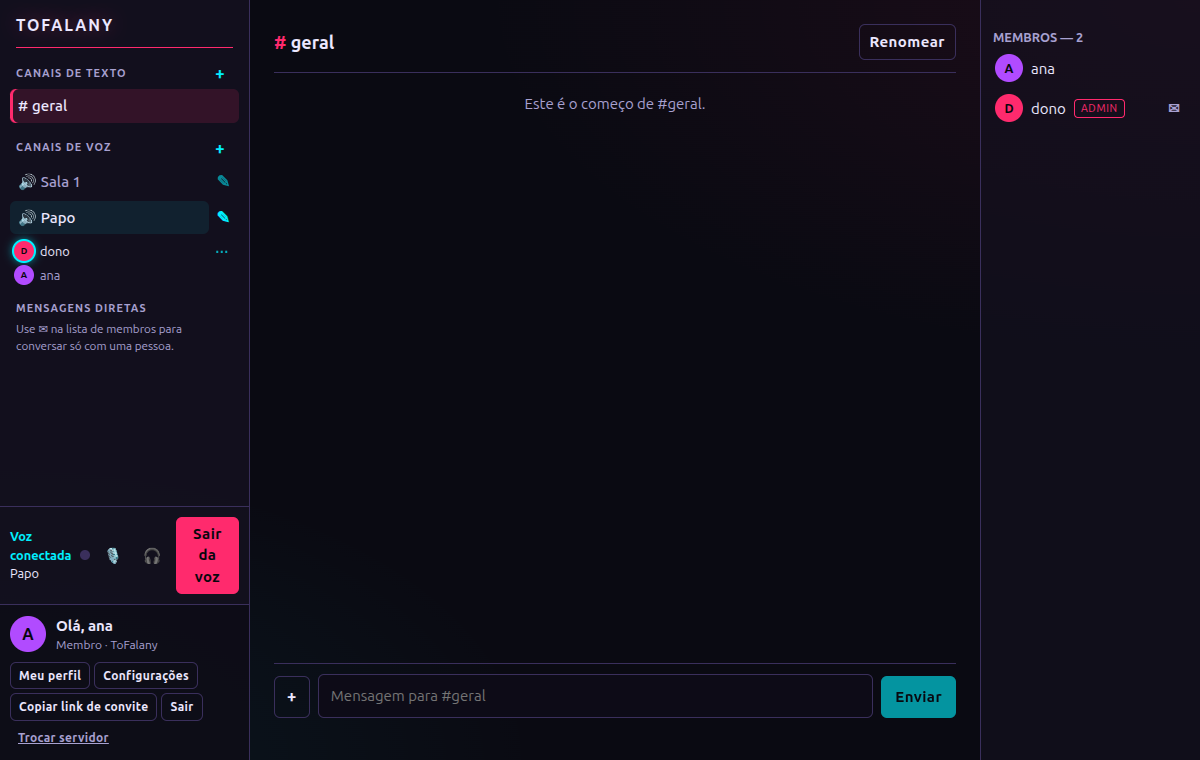
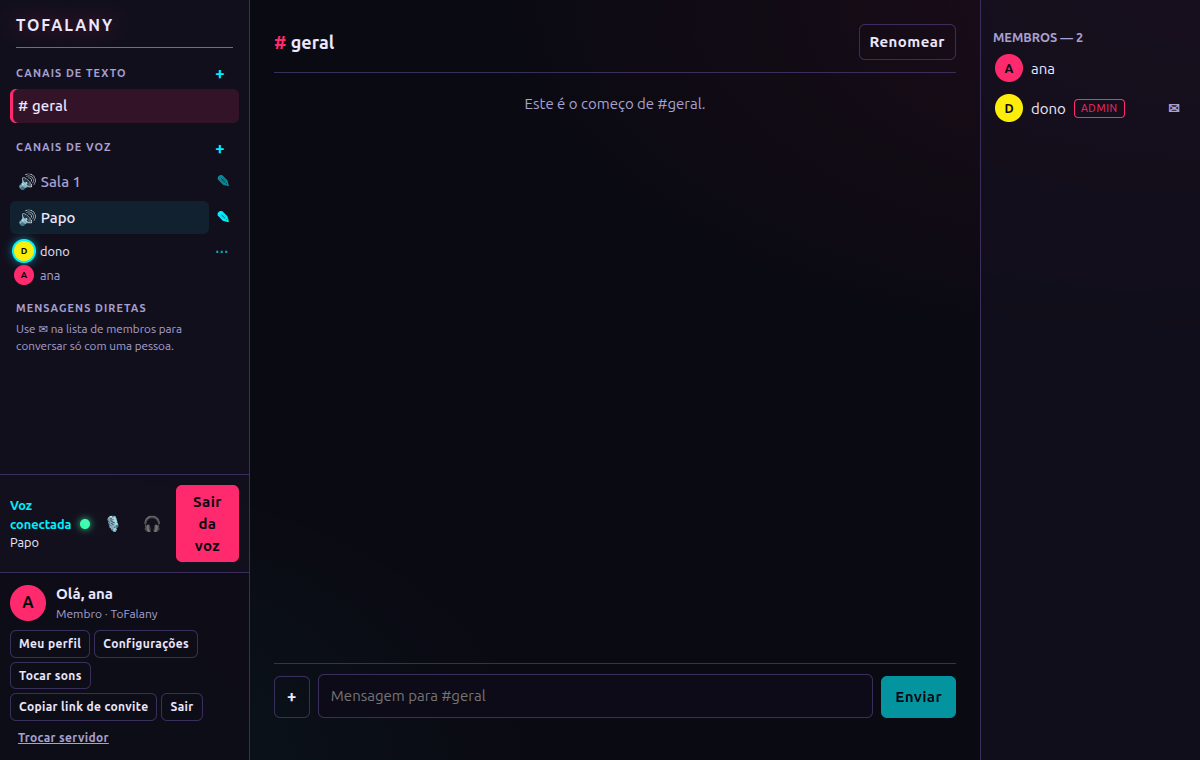
docs(T19): card, prints e marcação na fila

Changed region(s): [[0.0, 0.6355, 0.2158, 0.9079], [0.8325, 0.0605, 0.8633, 0.1816], [0.0, 0.3026, 0.0308, 0.3934]]

diff --git a/docs/demandas/to-falando-v1/cards/T19.html b/docs/demandas/to-falando-v1/cards/T19.html
@@ -1,0 +1,26 @@
+<!-- T19 — Soundboard: tocar no canal de voz -->
+<h3>Origem</h3>
+<p>Demanda to-falando-v1: RF-23, RF-24, RN-12, RN-13; CA-32 a CA-35.</p>
+<h3>Padrão</h3>
+<p>Técnica §3 (som:tocar / som:tocado) e R-4 (cada app toca localmente, com cache).</p>
+
+<h3>Implementação (05/11/2026, commit b14afdb)</h3>
+<ul>
+  <li><b>Servidor</b> (<code>realtime/soundboard.ts</code>): só quem está num canal de voz toca; intervalo de 3 s por pessoa; <code>som:tocado</code> vai só para as conexões presentes naquele canal, com quem tocou. Respostas de erro em texto ("Entre num canal de voz…", "Aguarde N s…"); técnica atualizada.</li>
+  <li><b>App</b>: botão "Tocar sons" no painel do usuário abre o soundboard (desabilitado fora da voz, com o motivo); depois de tocar, descanso de 3 s com contagem (vale mesmo fechando o painel); volume local 0–100% (RF-24). Sons baixados e decodificados ao entrar na voz (cache por arquivo, sons removidos saem do cache); tocam na saída escolhida; deafen não toca e corta o que estiver tocando; sair da voz também para; evento de outro canal é ignorado. Aviso "dono tocou Grilo" numa região viva sempre montada.</li>
+</ul>
+
+<h3>Testes</h3>
+<p><code>server/test/soundboard.test.ts</code> (só o canal, fora da voz, intervalo por pessoa e fim do intervalo), <code>soundboard.test.ts</code> (cache, volume, parar, fechar durante o download), <code>PainelSoundboard.test.tsx</code>; E2E <code>e2e/voz.spec.ts</code> (CA-32 a CA-35 e deafen). Suíte: 322 testes e 23 E2E passando; lint e build verdes.</p>
+
+<h3>Validação (local, 05/11/2026)</h3>
+<table border="1" cellpadding="4">
+  <tr><th>Chamada</th><th>Status</th><th>Resultado</th></tr>
+  <tr><td>E2E CA-33: dono fora da voz abre o soundboard</td><td>ok</td><td>botão do som desabilitado</td></tr>
+  <tr><td>E2E CA-32: dono toca "Grilo" no canal</td><td>ok</td><td>ana vê "dono tocou Grilo" e o som toca (print T19-ana-ve-quem-tocou)</td></tr>
+  <tr><td>E2E CA-34: logo depois</td><td>ok</td><td>botões descansando (print T19-painel-soundboard)</td></tr>
+  <tr><td>E2E CA-35 e deafen</td><td>ok</td><td>volume 0 ou deafen: aviso aparece, som não toca; vozes seguem</td></tr>
+</table>
+<p><b>A validar pelo usuário:</b> ouvir o som em outra máquina; conferir que quem está em outro canal não ouve.</p>
+<p><b>Observação:</b> a revisão achou um defeito real no relógio do intervalo (guardava a referência de <code>Date.now</code>), corrigido. Sons de voz e soundboard usam contextos de áudio separados (cada um segue a saída escolhida).</p>
+<p>Revisão: 12 achados (0 graves, 4 médios, 8 menores), todos corrigidos ou registrados.</p>

diff --git a/docs/demandas/to-falando-v1/02-tecnica.md b/docs/demandas/to-falando-v1/02-tecnica.md
@@ -76,7 +76,7 @@ Toda rota `/api/admin/*` confere o cargo no servidor; `403 sem_permissao` para m
 | `voz:estado` | `{ canalVozId \| null, mudo, surdo, camera }` | presença mostrada a todos |
 | `tela:pedir` | `{ canalVozId, qualidade }` | `ok` · `ocupado { porUsuarioId }` (RN-10) · `qualidade_nao_permitida` (RN-17) |
 | `tela:parar` | `{ canalVozId }` | libera a trava |
-| `som:tocar` | `{ somId }` | `ok` · `fora_da_voz` (RN-12) · `aguarde { ms }` (RN-13) |
+| `som:tocar` | `{ somId }` | `ok` · erro "Entre num canal de voz…" (RN-12) · erro "Aguarde N s…" (RN-13); o app conta o descanso localmente (o ack padrão só tem a mensagem) |
 
 Servidor → cliente: `ola` (retrato completo ao conectar: eu, usuários, canais, DMs, não lidas, presença em voz, transmissões, sons, link de convite), `usuario:atualizado`, `usuario:removido`, `canal:criado|renomeado|removido`, `mensagem:nova|editada|apagada`, `digitando`, `voz:estados`, `tela:iniciada|parada`, `som:tocado { somId, porUsuarioId, canalVozId }` (só para a sala), `sons:atualizados`, `sessao:revogada`.
 
